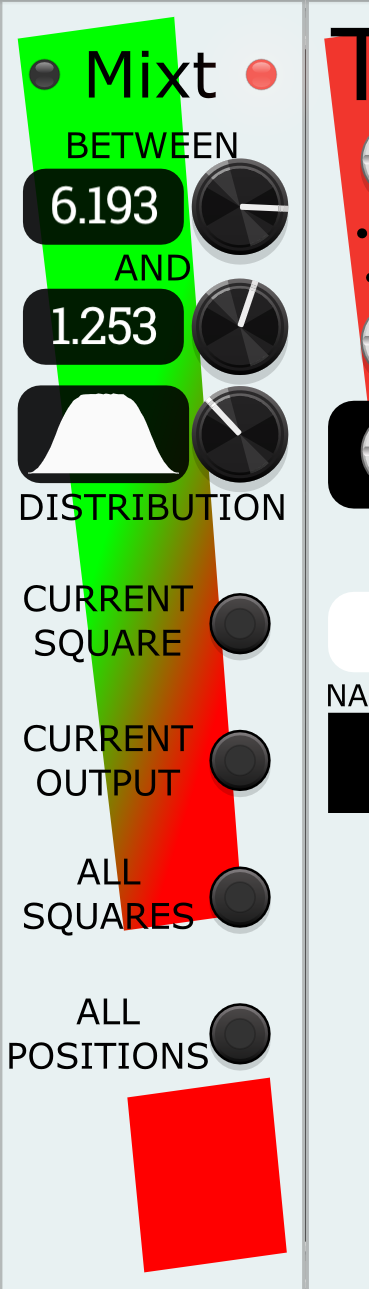
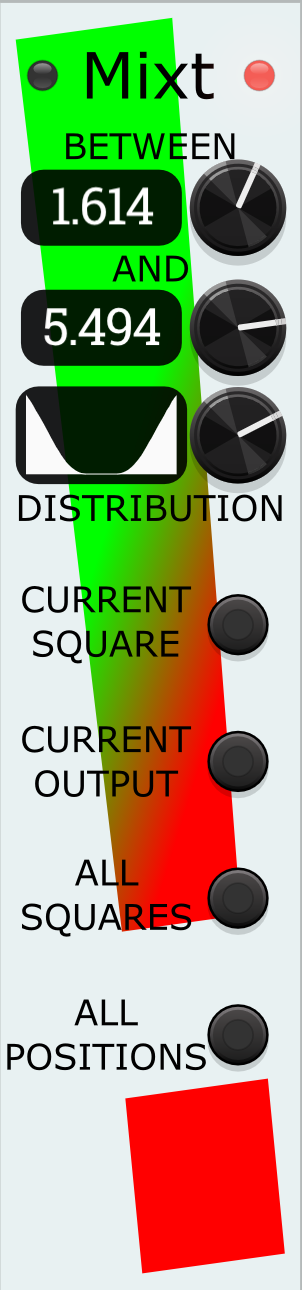
Better illustrated Distribution.

diff --git a/Twixt.md b/Twixt.md
@@ -169,6 +169,8 @@ Mixt is a companion module to Twixt, allowing you to more easily set random Outp
 
 By placing Mixt next to your Twixt module, you gain access to more tunable randomization and the ability to explore different variations while taking advantage of VCV Rack's built-in Undo/Redo history.
 
+Once you've gotten your Twixt module's Outputs the way you want them, you can remove the Mixt module.
+
 ## Use Example
 * Place a Mixt module directly next to your Twixt module (the appropriate connection light at the top will illuminate).
 * Select a Square in Twixt.
@@ -191,13 +193,28 @@ At the top left and right of the module, two lights indicate whether Mixt has su
 ### Limits & Distribution
 These knobs define the pool of random values that will be generated.
 * **Upper & Lower Limits:** Set the absolute maximum and minimum voltages for the randomized outputs. The precise values are shown on the numeric displays. (Note: Mixt will automatically correct the logic if you set the lower limit higher than the upper limit).
-* **Distribution:** Shapes the probability density function (PDF) curve of the random values. The curve is visually represented on the graphical display, allowing you to bias the random results toward the center, the extremes, or evenly across your specified limits.
+* **Distribution:** Shapes the probability density function (PDF) curve of the random values. The curve is visually represented on the little display, allowing you to bias the random results in a number of useful ways.
+
+![Mixt Distributions](images/MixtDistributions.png)
+
+Example DISTRIBUTION settings.
+* 0 -> A single value that is the average of the two limits.
+* 1 -> A bell curve or Gaussian distribution, favoring values in the middle.
+* 2 -> A uniform distribution, equally likely to pick any value between the limits.
+* 3 -> An inverted Gaussian, picking nothing in the middle.
+* 4 -> Only picks the two limit values.
+
+Note that any value between these integer values for DISTRIBUTION are also valid. Here are DISTRIBUTION settings at 0.5, 1.5, 2.5, and 3.5.
+![More Mixt Distributions](images/MixtDistTwo.png)
 
 ### Randomize Actions
-Four buttons trigger immediate randomizations based on your Limits and Distribution settings. 
+Four buttons trigger immediate randomizations in adjacent Twixt modules based on your Limits and Distribution settings. 
 * **Current Square** randomizes all 12 output values of the Square currently selected in Twixt.
 * **Current Output** randomizes the value of the currently selected Output (CV 1-12) across *all* Squares in Twixt.
 * **All Squares** randomizes all 12 output values for *every* Square on the Twixt surface.
+
+And also:
+
 * **All Positions** randomizes the X and Y positions of all Squares on the Twixt surface, but does not change the Output values for any Squares. The DISTRIBUTION has no effect on this operation.
 
 # Acknowledgements